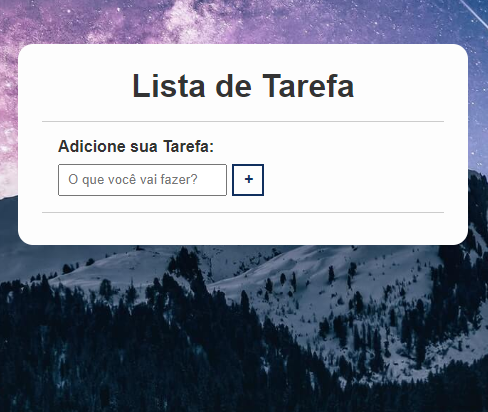
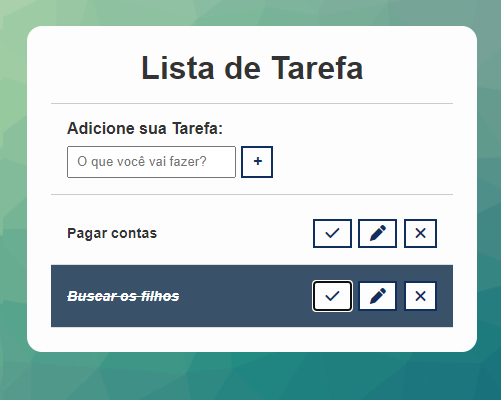
o inicio

diff --git a/index.html b/index.html
@@ -44,7 +44,7 @@
     <div class="projetos">
         <div class="link-projetos">
             <a href="https://63869c95088194339ec478e8--resonant-narwhal-b72d1c.netlify.app/">
-              <img src="/assents/img/mini-todo.png" alt="">  
+              <img src="/assents/img/" alt="">  
             </a>
         </div>
     </div> 

diff --git a/todolist/css/style.css b/todolist/css/style.css
@@ -8,9 +8,10 @@
 }
 
 body {
-    background-image: url(../img/bg.jpg);
-    background-position: center;
+    background-image: url(../img/cool-background.png);
     background-size: cover;
+    background-repeat: no-repeat;
+    background-attachment: fixed;
 }
 
 button {
